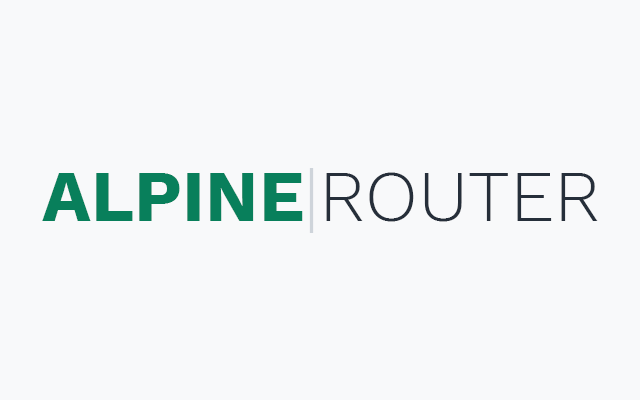
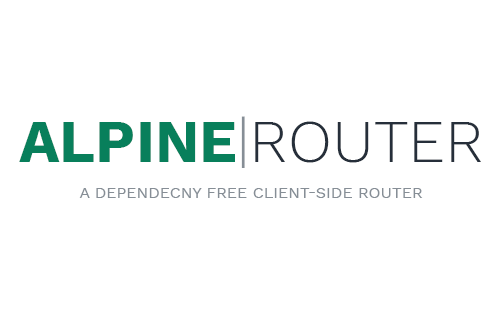
Add new preview image for Alpine Router

Changed region(s): [[0.03, 0.3738, 0.96, 0.5751], [0.15, 0.6038, 0.84, 0.6326]]

diff --git a/index.html b/index.html
@@ -24,8 +24,8 @@
           <img src="assets/alpine-router.png" class="preview" />
           <div class="description">
             <h2>Alpine Router</h2>
-            <p>A client-side router with no dependencies featuring child routes and built with the ES2015 JavaScript feature set using TypeScript.</p>
-            <a href="https://github.com/Mandosis/Alpine-Router">
+            <p>An open source dependency free client-side router featuring child routes and built with the ES2015 JavaScript feature set using TypeScript.</p>
+            <a href="http://chrisrabuse.com/Alpine-Router">
               <button class="button">View Project</button>
             </a>
           </div>
